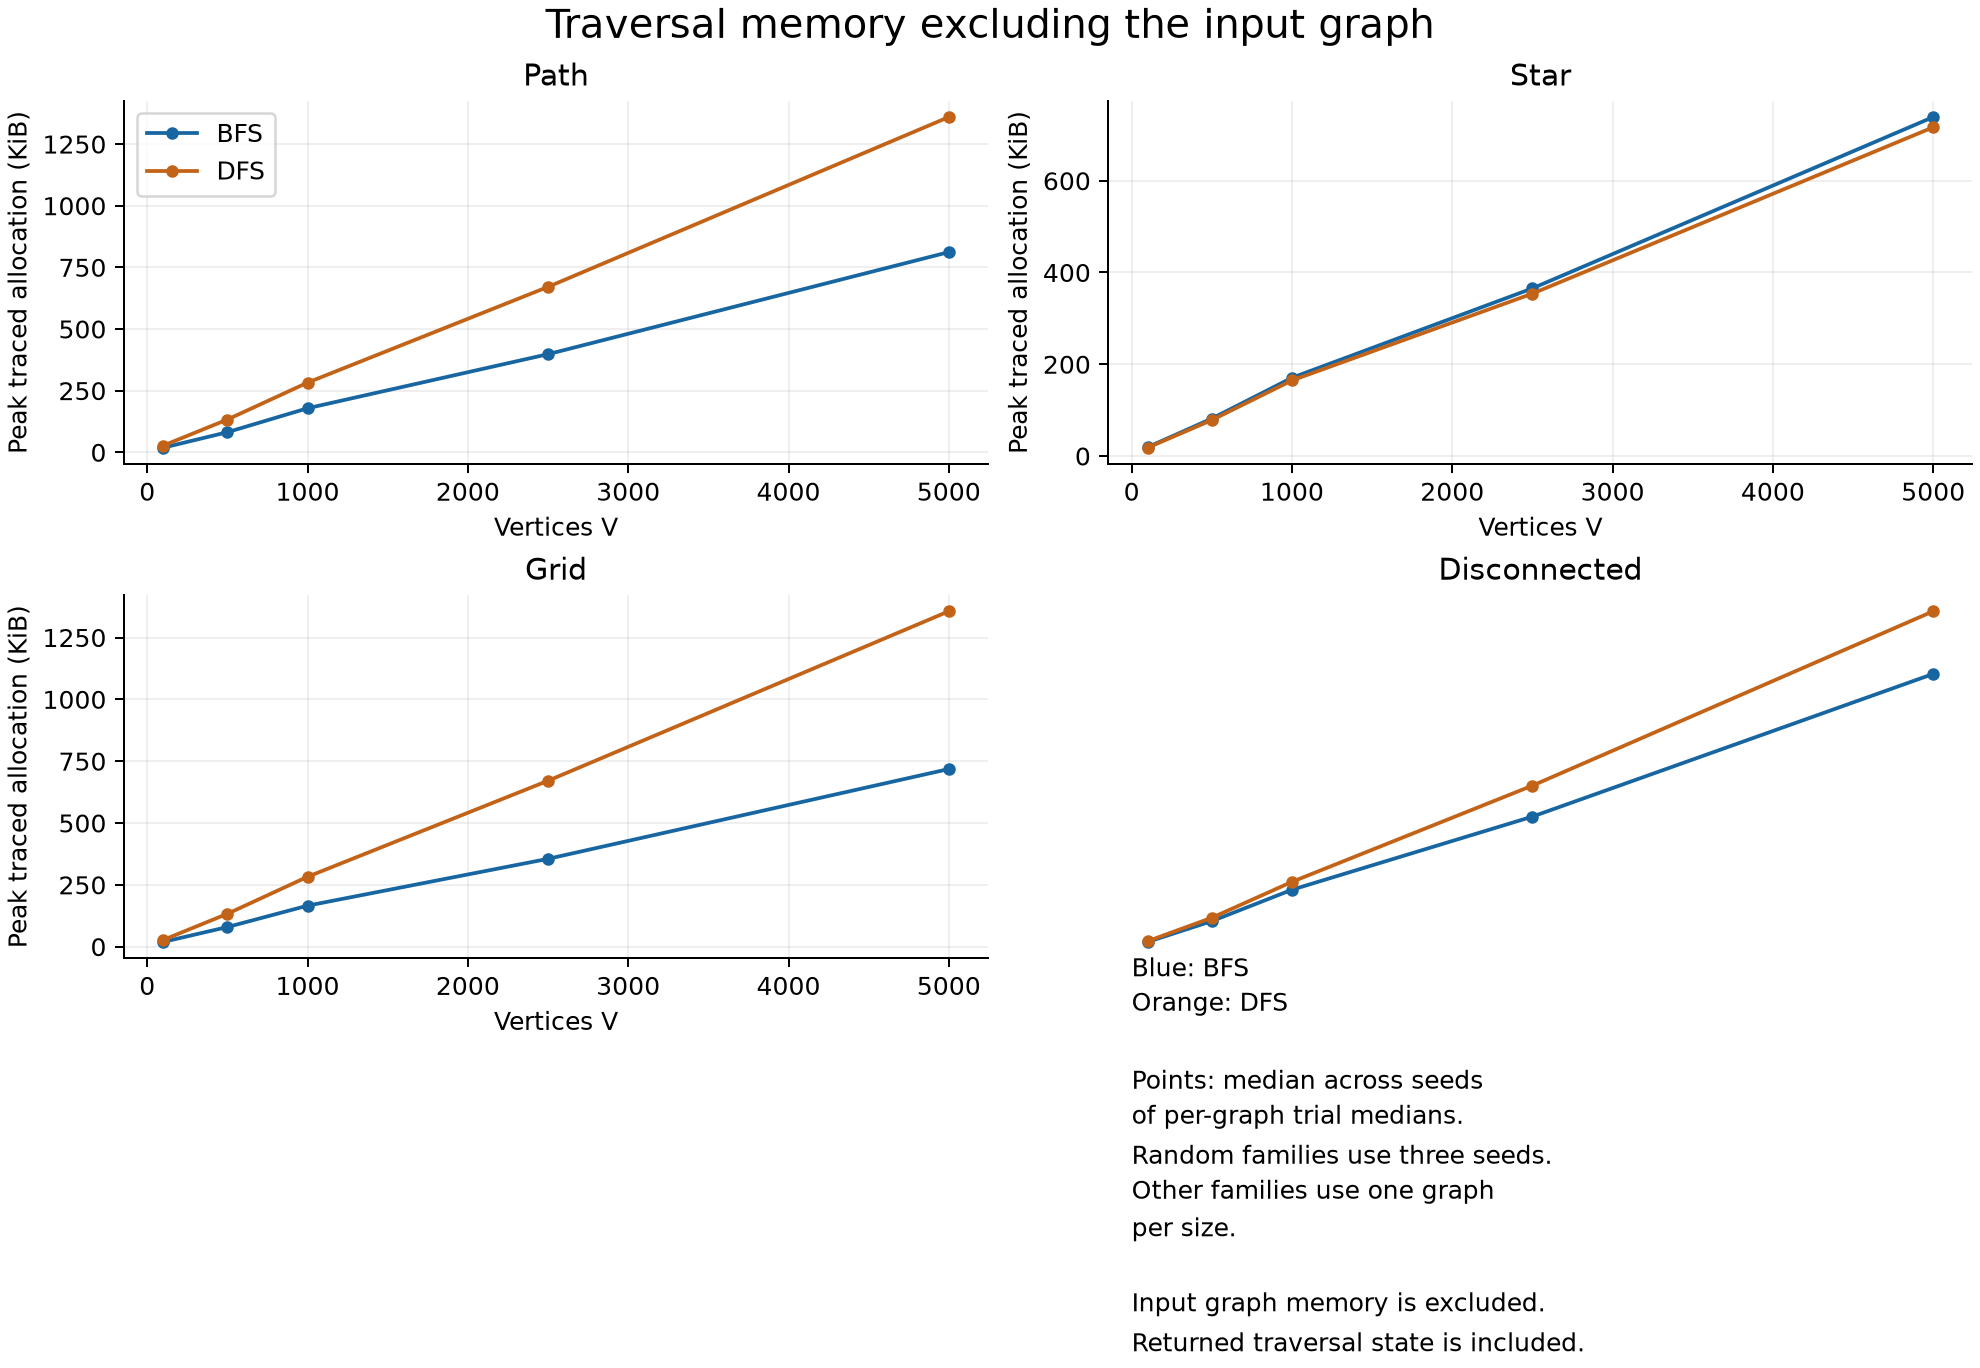
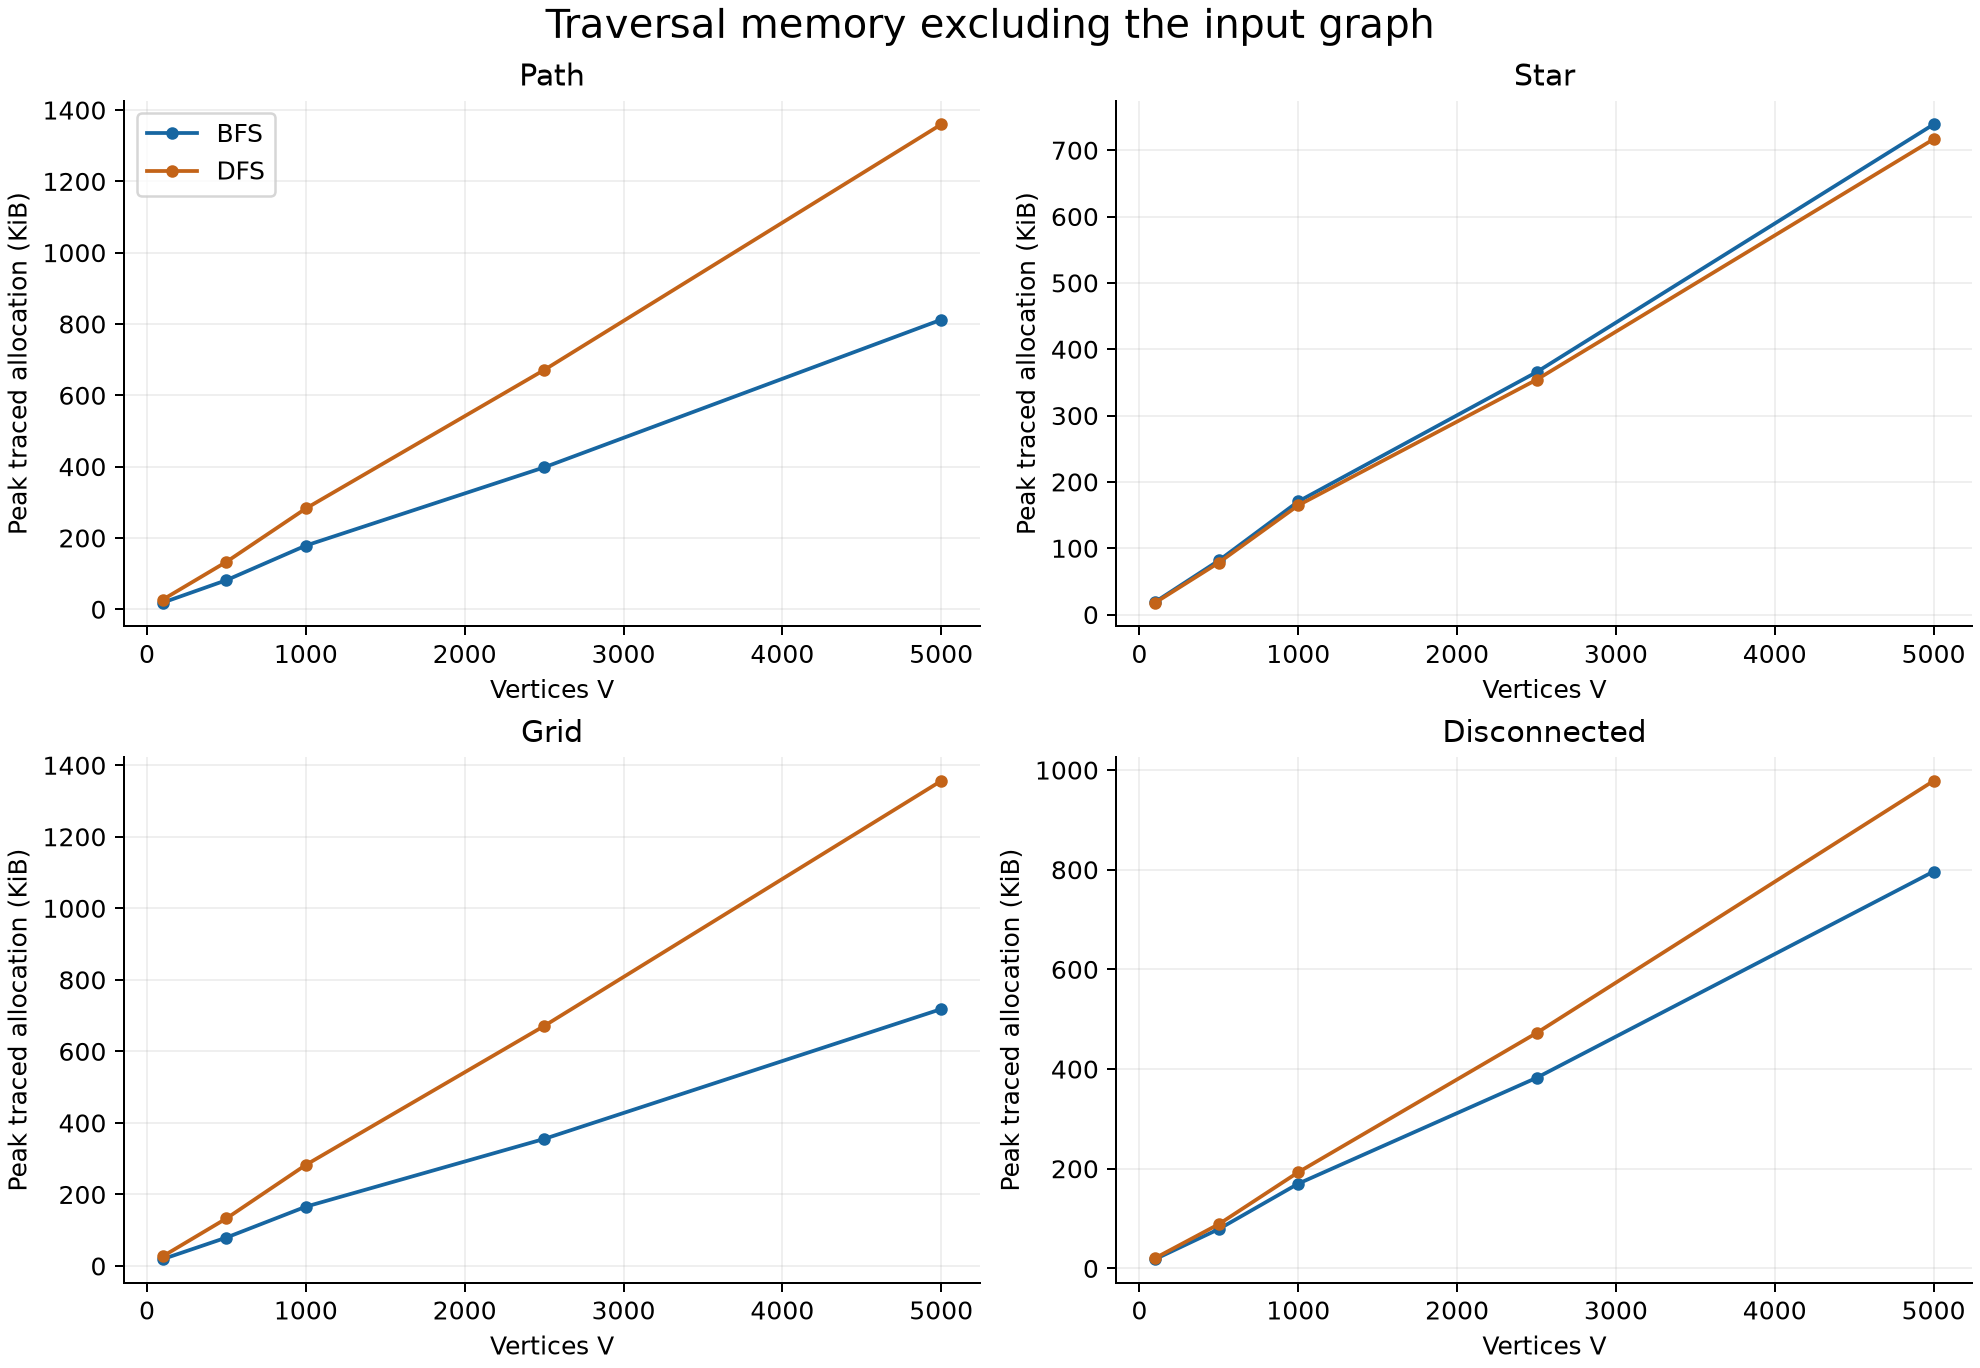
removed unneccessary files

diff --git a/plot_results.py b/plot_results.py
@@ -53,10 +53,6 @@ def panel_figure(rows, metric, ylabel, title, filename, dest, scale=1, reference
         ax.set_ylabel(ylabel)
         ax.grid(alpha=0.2)
         ax.ticklabel_format(axis="y", style="plain", useOffset=False)
-    axes.flat[-1].axis("off")
-    axes.flat[-1].text(0.05, 0.9, "Blue: BFS\nOrange: DFS\n\nPoints: median across seeds\nof per-graph trial medians.\nRandom families use three seeds.\nOther families use one graph\nper size.\n" +
-                       ("\nDashed: V + adjacency entries,\nscaled to each first timing point.\nThis is a growth reference, not a fit." if reference else "\nInput graph memory is excluded.\nReturned traversal state is included."),
-                       va="top", fontsize=10, linespacing=1.5)
     axes.flat[0].legend()
     fig.suptitle(title, fontsize=16)
     fig.savefig(dest / filename, dpi=180)

diff --git a/benchmark.py b/benchmark.py
@@ -89,10 +89,6 @@ def main():
         "runtime_trials": args.trials,
         "memory_trials": args.memory_trials,
         "sizes": sizes,
-        "source_hashes": {
-            p.name: hashlib.sha256(p.read_bytes()).hexdigest()
-            for p in sorted(Path(__file__).parent.glob("*.py"))
-        },
         "graph_hashes": [],
         "scope": "Full traversals, undirected unweighted simple graphs, source 0; ascending neighbors",
     }

diff --git a/README.md b/README.md
@@ -13,7 +13,7 @@ python demo.py
 python -m unittest -v
 ```
 
-Read `docs/PRESENTATION_HANDOFF.md` next. It maps the instructor's slide sections to the implementation, figures, results, demo, and remaining team decisions. `results/FINDINGS.md` contains the actual measured results and their limitations.
+Read `results/FINDINGS.md` for the actual measured results and their limitations.
 
 ## Reproduce the experiments
 
@@ -28,7 +28,7 @@ python -m venv .venv
 .\.venv\Scripts\python.exe demo.py --output results_rerun/demo.json
 ```
 
-The original evidence stays in `results/`. A small verification benchmark can be run with `python benchmark.py --quick --output results_quick`. It uses fewer graph sizes and one random seed. The full benchmark is the basis for the supplied findings.
+The original evidence stays in `results/`. A small verification benchmark can be run with `python benchmark.py --quick --output results_quick`. It uses fewer graph sizes. The full benchmark is the basis for the supplied findings.
 
 ## Files
 
@@ -40,16 +40,12 @@ The original evidence stays in `results/`. A small verification benchmark can be
 | `benchmark.py` | Repeated runtime trials, separate memory trials, validations, graph fingerprints, environment capture |
 | `plot_results.py` | Regenerates four PNG figures and the measured-results note |
 | `test_project.py` | Independent correctness oracles and boundary cases |
-| `docs/METHODS.md` | Implementation decisions, pseudocode, complexity, experimental method, limitations |
-| `docs/PRESENTATION_HANDOFF.md` | Evidence map, proposed slide order, demo plan, likely questions, next steps |
-| `docs/SOURCES_AND_REQUIREMENTS.md` | Proposal scope, D2L requirements, verified source links, bibliography corrections |
 | `results/runtime_trials.csv` | Individual runtime records, with timing batch sizes |
 | `results/memory_trials.csv` | Individual peak-allocation records |
 | `results/summary.csv` | Per-graph, per-algorithm summaries |
 | `results/environment.json` | Environment, parameters, and graph fingerprints |
 | `results/demo.json` | Exact recorded demo inputs and outputs |
 | `results/validation.txt` | Output from the verification run |
-| `results/build_record.json` | SHA-256 fingerprints of the Python source files used for this delivery |
 | `results/figures/` | Runtime, traced memory, frontier shape, and demo path figures |
 
 ## Use the algorithms with another graph
@@ -73,4 +69,4 @@ Vertices use integer labels from 0 through n-1. Build graphs with `Graph.from_ed
 
 The live presentation window ends November 21, 2026. The presentation upload is due November 21 at 11:59 p.m. Eastern and the final report is due November 30 at 11:59 p.m. Eastern. The team still needs to confirm its Teams slot, assign speakers, rehearse, write the script, build the slides, incorporate this evidence into the shared report, and submit the required deliverables. Those decisions and submissions are outside this code package.
 
-The measured results describe these implementations on the recorded machine across path, star, grid, and disconnected graphs. Both algorithms perform O(V + E) full traversal work. Graph shape changes queue size and stack depth, and the demo shows BFS's shortest-path guarantee on unweighted graphs. See the detailed caveats in `docs/METHODS.md` and `results/FINDINGS.md` before using these claims.
+The measured results describe these implementations on the recorded machine across path, star, grid, and disconnected graphs. Both algorithms perform O(V + E) full traversal work. Graph shape changes queue size and stack depth, and the demo shows BFS's shortest-path guarantee on unweighted graphs. See the detailed caveats in `results/FINDINGS.md` before using these claims.
